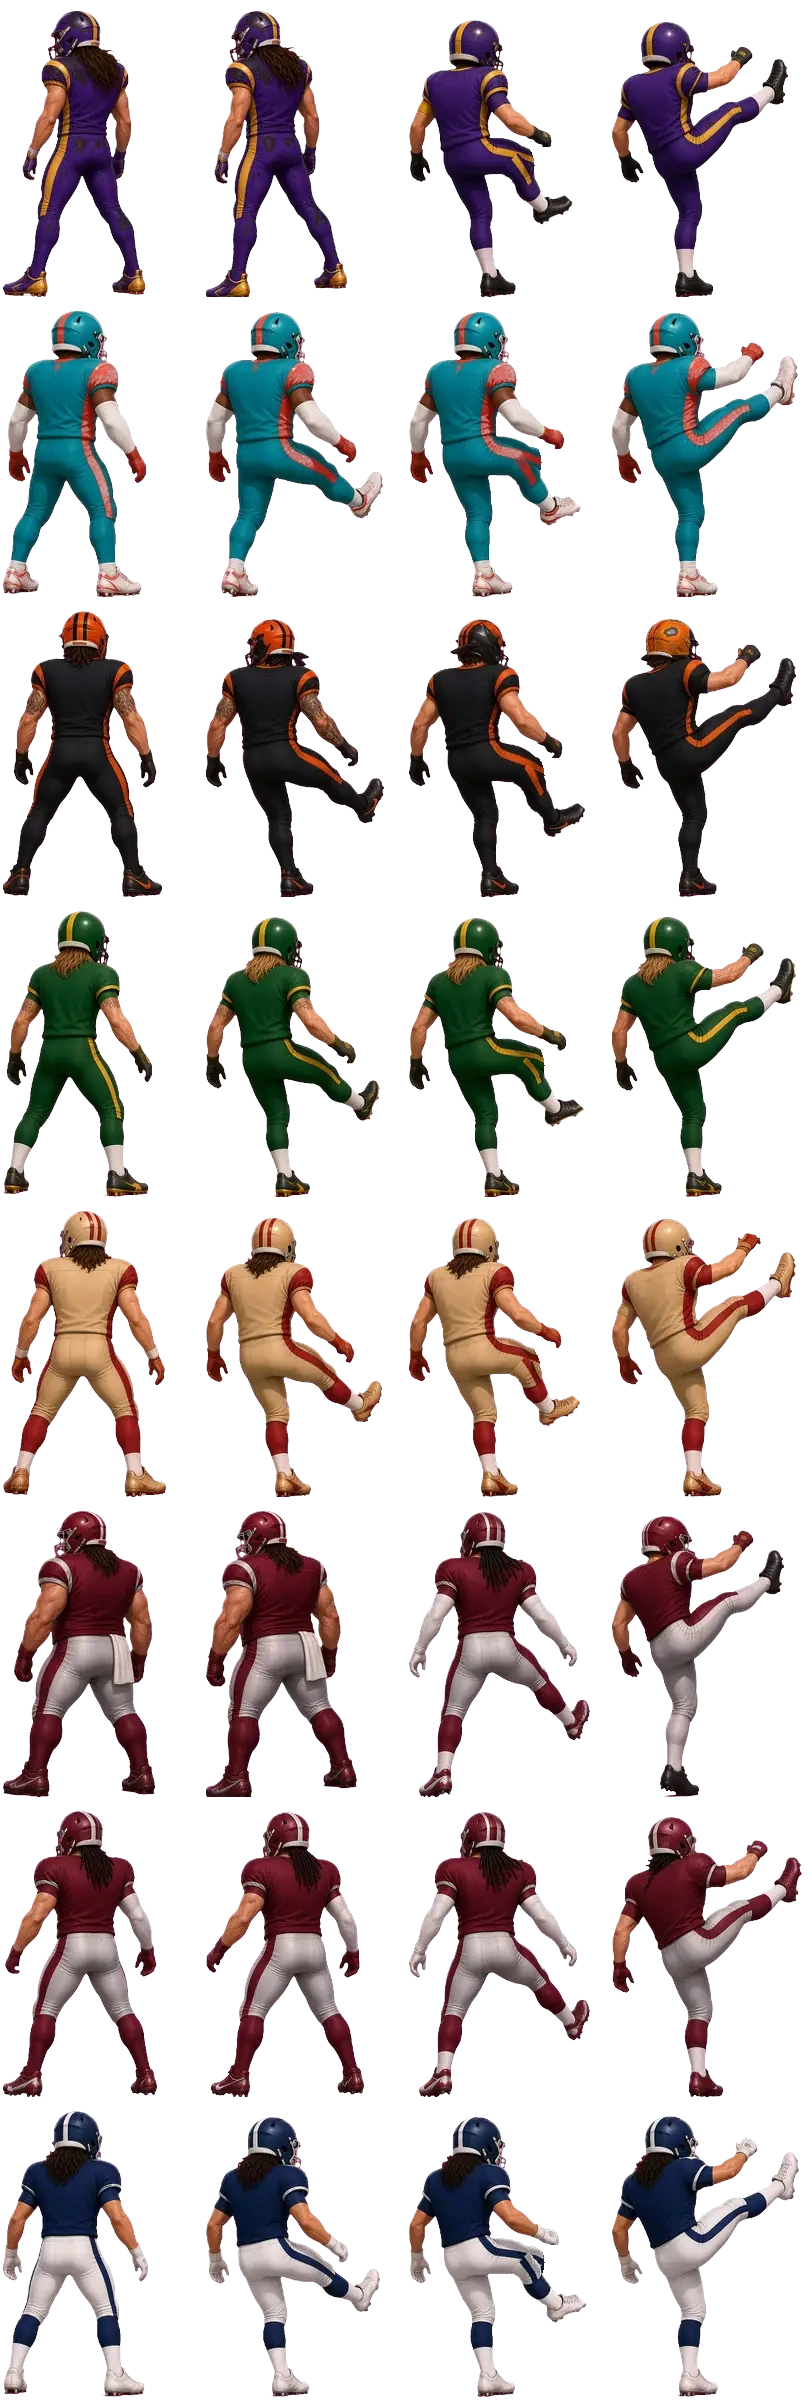
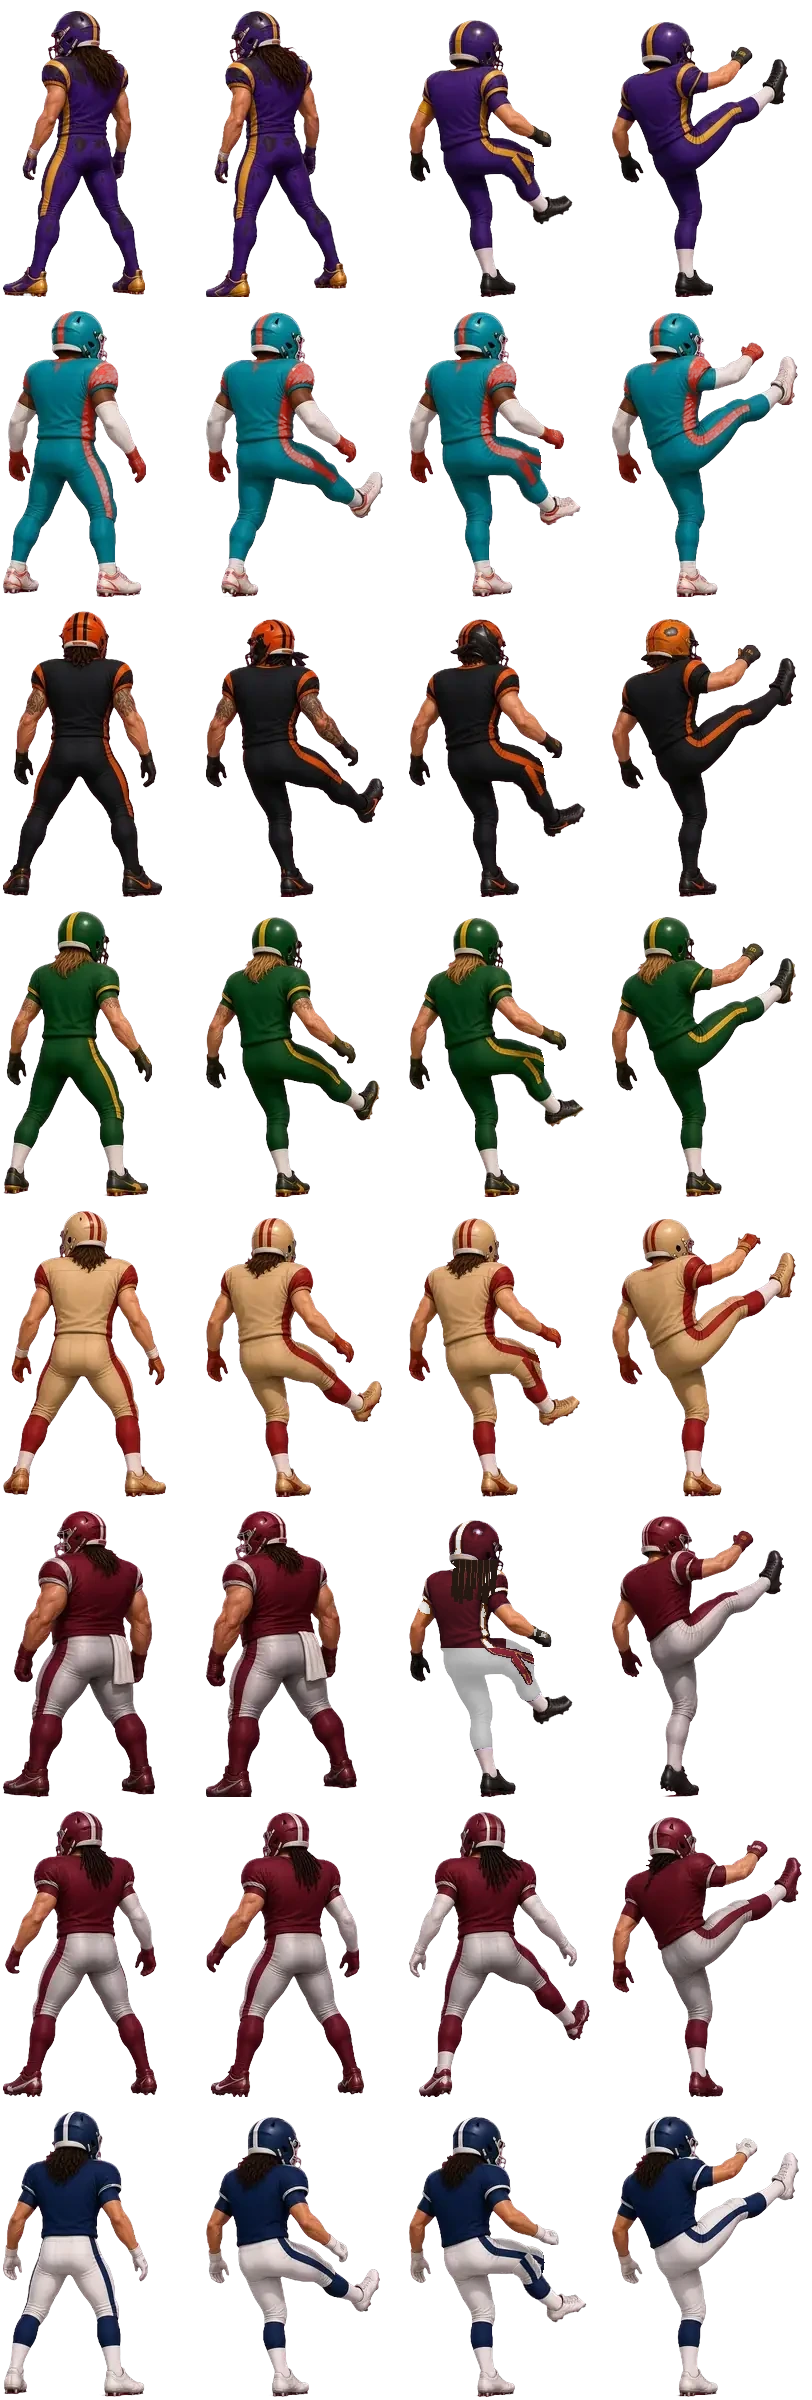
Mascot kick reads: leg in front, lean/plant, high follow-through, arms out; proper Bulldogs contact frame

Changed region(s): [[0.4926, 0.625, 0.7389, 0.75]]

diff --git a/s10.js b/s10.js
@@ -29,18 +29,30 @@ function mascBack(mi,num){const nm=(MK.name||'').toUpperCase().slice(0,10),k=mi+
  if(nm){let fs=12;x.font=`900 ${fs}px system-ui`;while(x.measureText(nm).width>tw-8&&fs>7){fs--;x.font=`900 ${fs}px system-ui`}x.lineWidth=3;x.strokeStyle='rgba(0,0,0,0.5)';x.strokeText(nm,tx+tw/2,ty+12);x.fillStyle='#fff';x.fillText(nm,tx+tw/2,ty+12)}
  numOn(x,tx+tw/2,ty+th*0.6,Math.min(30,th*0.55),num,T.s);
  return MBK[k]=c}
-mascSheet=function(mi,ti,num){const k='mb2_'+mi+'_'+num+'_'+(MK.name||'');if(KC5[k])return KC5[k];if(!MSI.complete||!MSI.naturalWidth)return teamSheet(ti);
- const c=document.createElement('canvas');c.width=812;c.height=300;c._masc=1;const x=c.getContext('2d'),bk=mascBack(mi,num),T=TEAMS[mi]||TEAMS[ti];
- // frames: 0 ready, 1 wind-up (leg back), 2 contact, 3 follow-through — feet on the human baseline, same spot by the ball
- // frame-space targets (203x300 cell) for the boot: wind-up behind, CONTACT exactly on the tee/ball, follow-through high toward the posts
- const P=[[0,0,null],[-0.04,-3,[40,250]],[0.03,2,[175,206]],[0.08,5,[178,80]]];
- P.forEach(([r,dx,tg],i)=>{const h=218,w=h*0.965,fx=i*203+76+dx,fy=297;
-  let L=null;if(tg){const hx=fx+w*0.2,hy=fy-h*0.36;let vx=tg[0]+i*203-hx,vy=tg[1]-hy;const d=Math.hypot(vx,vy),Lm=Math.min(d,h*0.42);L=[hx,hy,Math.atan2(-vx,vy),Lm]}
+// arms moved for the kick: cut each raised arm at the shoulder and swing it down / out to the side
+const MAX_=[0,[null,140],0,0,[null,148],0,[42,138],0];
+function mascArms(mi,num,al,ar){const bk=mascBack(mi,num),k='a'+mi+'_'+num+'_'+(MK.name||'')+'_'+al+'_'+ar;if(MBK[k])return MBK[k];
+ const [hd,,tb]=MBH[mi]||MBH[0],[tx,ty,tw,th]=tb,c=document.createElement('canvas');c.width=193;c.height=200;const x=c.getContext('2d');
+ const AX=MAX_[mi]||[tx+2,tx+tw-2],LX=AX[0],RX=AX[1];const armPath=(left)=>{x.beginPath();if(left)(LX!=null&&x.rect(0,0,LX,ty+14));else (RX!=null&&x.rect(RX,0,193,ty+14));x.ellipse(hd[0],hd[1],hd[2]*1.25,hd[3]*1.2,0,0,7)};
+ // body without arms
+ x.save();x.beginPath();x.rect(0,0,193,200);(LX!=null&&x.rect(0,0,LX,ty+14));(RX!=null&&x.rect(RX,0,193,ty+14));x.ellipse(hd[0],hd[1],hd[2]*1.25,hd[3]*1.2,0,0,7);x.clip('evenodd');x.drawImage(bk,0,0);x.restore();
+ // put the head back (it was excluded from the arm cut)
+ x.save();x.beginPath();x.ellipse(hd[0],hd[1],hd[2]*1.25,hd[3]*1.2,0,0,7);x.clip();x.drawImage(bk,0,0);x.restore();
+ for(const [left,ang] of [[1,al],[0,ar]]){if((left?LX:RX)==null)continue;const px=left?LX:RX,py=ty+14;x.save();x.translate(px,py);x.rotate(ang);x.translate(-px,-py);
+  x.beginPath();if(left)(LX!=null&&x.rect(0,0,LX,ty+14));else (RX!=null&&x.rect(RX,0,193,ty+14));x.clip('nonzero');
+  x.save();x.beginPath();x.rect(0,0,193,200);x.ellipse(hd[0],hd[1],hd[2]*1.25,hd[3]*1.2,0,0,7);x.clip('evenodd');x.drawImage(bk,0,0);x.restore();x.restore()}
+ return MBK[k]=c}
+mascSheet=function(mi,ti,num){const k='mb5_'+mi+'_'+num+'_'+(MK.name||'');if(KC5[k])return KC5[k];if(!MSI.complete||!MSI.naturalWidth)return teamSheet(ti);
+ const c=document.createElement('canvas');c.width=812;c.height=300;c._masc=1;const x=c.getContext('2d'),T=TEAMS[mi]||TEAMS[ti];
+ // [body lean, x shift, boot target in the 203x300 cell, left arm, right arm]
+ const P=[[0,0,null,0,0],[-0.10,-8,[30,262],-1.9,1.3],[0.10,10,[175,206],-1.7,2.0],[-0.16,4,[196,26],-1.3,1.7]];
+ P.forEach(([r,dx,tg,al,ar],i)=>{const h=218,w=h*0.965,fx=i*203+76+dx,fy=297,img=i?mascArms(mi,num,al,ar):mascBack(mi,num);
+  let L=null;if(tg){const hx=fx+w*0.1,hy=fy-h*0.36;const vx=tg[0]+i*203-hx,vy=tg[1]-hy;L=[hx,hy,Math.atan2(-vx,vy),Math.min(Math.hypot(vx,vy),h*0.62)]}
   if(L&&i===1)drawLeg(x,L,T);
-  x.save();x.translate(fx,fy);x.rotate(r);x.drawImage(bk,-w/2,-h,w,h);x.restore();
+  x.save();x.translate(fx,fy);x.rotate(r);x.drawImage(img,-w/2,-h,w,h);x.restore();
   if(L&&i>1)drawLeg(x,L,T)});return KC5[k]=c};
 function drawLeg(x,[hx,hy,a,L],T){x.save();x.translate(hx,hy);x.rotate(a);
  const g=x.createLinearGradient(-13,0,13,0);g.addColorStop(0,'rgba(0,0,0,0.28)');g.addColorStop(0.5,'rgba(255,255,255,0.10)');g.addColorStop(1,'rgba(0,0,0,0.28)');
- x.fillStyle=T.p;x.beginPath();x.roundRect(-13,-6,26,L*0.62,12);x.fill();x.fillStyle=g;x.fill();
- x.fillStyle='#f4f4f4';x.beginPath();x.roundRect(-10,L*0.55,20,L*0.36,8);x.fill();x.fillStyle=T.s;x.fillRect(-10,L*0.55,20,5);
- x.fillStyle='#141414';x.beginPath();x.ellipse(3,L*0.94,12,17,0,0,7);x.fill();x.fillStyle='rgba(255,255,255,0.22)';x.fillRect(-4,L*0.86,9,3);x.restore()}
+ x.fillStyle=T.p;x.beginPath();x.roundRect(-16,-8,32,L*0.62,14);x.fill();x.fillStyle=g;x.fill();
+ x.fillStyle='#f4f4f4';x.beginPath();x.roundRect(-12,L*0.55,24,L*0.36,9);x.fill();x.fillStyle=T.s;x.fillRect(-10,L*0.55,20,5);
+ x.fillStyle='#141414';x.beginPath();x.ellipse(3,L*0.95,14,20,0,0,7);x.fill();x.fillStyle='rgba(255,255,255,0.22)';x.fillRect(-4,L*0.86,9,3);x.restore()}

diff --git a/s5.js b/s5.js
@@ -7,7 +7,7 @@ const IS_WEB=!window.FGF_APP;
 window.TESTER=IS_WEB&&LS.fgfTester==='1';
 if(TESTER){coins=1e9;const oAdd=addCoins;addCoins=function(n){}}
 // ---- per-team kicker sheets (kickers.webp: 8 rows x 4 poses of 203x300) ----
-const KMETA=[[[86, 88, 40, 31, 76, 24], [270, 88, 40, 31, 256, 24], [464, 94, 42, 30, 474, 32], [657, 96, 36, 30, 666, 34]], [[69, 88, 47, 31, 78, 24], [266, 88, 46, 31, 276, 25], [470, 88, 45, 31, 480, 25], [669, 89, 46, 31, 676, 26]], [[82, 88, 50, 31, 83, 24], [270, 94, 48, 31, 270, 32], [472, 94, 46, 31, 480, 32], [660, 94, 38, 31, 672, 32]], [[73, 88, 46, 31, 82, 24], [266, 92, 44, 31, 276, 30], [468, 93, 43, 31, 478, 31], [659, 92, 37, 31, 668, 30]], [[86, 88, 50, 31, 84, 24], [264, 93, 44, 31, 274, 31], [468, 93, 44, 31, 475, 31], [659, 94, 38, 31, 693, 32]], [[90, 88, 50, 31, 82, 24], [276, 88, 53, 31, 262, 24], [523, 91, 56, 31, 524, 29], [656, 91, 36, 31, 688, 29]], [[84, 88, 48, 31, 79, 24], [291, 88, 48, 31, 286, 25], [486, 88, 49, 31, 482, 25], [665, 92, 40, 31, 685, 30]], [[72, 88, 50, 31, 78, 24], [263, 92, 45, 31, 273, 30], [466, 92, 44, 31, 478, 30], [660, 91, 38, 31, 684, 29]]]; // per team, per pose: [numCx,numCy,numW,numH,headX,headY]
+const KMETA=[[[86, 88, 40, 31, 76, 24], [270, 88, 40, 31, 256, 24], [464, 94, 42, 30, 474, 32], [657, 96, 36, 30, 666, 34]], [[69, 88, 47, 31, 78, 24], [266, 88, 46, 31, 276, 25], [470, 88, 45, 31, 480, 25], [669, 89, 46, 31, 676, 26]], [[82, 88, 50, 31, 83, 24], [270, 94, 48, 31, 270, 32], [472, 94, 46, 31, 480, 32], [660, 94, 38, 31, 672, 32]], [[73, 88, 46, 31, 82, 24], [266, 92, 44, 31, 276, 30], [468, 93, 43, 31, 478, 31], [659, 92, 37, 31, 668, 30]], [[86, 88, 50, 31, 84, 24], [264, 93, 44, 31, 274, 31], [468, 93, 44, 31, 475, 31], [659, 94, 38, 31, 693, 32]], [[90, 88, 50, 31, 82, 24], [276, 88, 53, 31, 262, 24], [464, 94, 42, 30, 474, 32], [656, 91, 36, 31, 688, 29]], [[84, 88, 48, 31, 79, 24], [291, 88, 48, 31, 286, 25], [486, 88, 49, 31, 482, 25], [665, 92, 40, 31, 685, 30]], [[72, 88, 50, 31, 78, 24], [263, 92, 45, 31, 273, 30], [466, 92, 44, 31, 478, 30], [660, 91, 38, 31, 684, 29]]]; // per team, per pose: [numCx,numCy,numW,numH,headX,headY]
 const NUMS5=[14,5,31,37,6,47,18,10]; // fixed in code: same on every device, unique per team
 const SKIN=[['Default',null,0],['Fair','#f3cfae',0],['Light','#e0ac83',0],['Tan','#c48a5c',0],['Brown','#8e5a37',0],['Deep','#5c3820',0],['Gold Chrome','#ffd36a',400],['Blue Paint','#4f86e0',800]];
 const HAIR=[['Default',null,0],['Black','#17110d',0],['Brown','#5b3a22',0],['Blond','#d6b05a',0],['Red','#a3442a',0],['Gray','#a3a3a3',0],['Platinum','#efe9da',250],['Neon Green','#4dff6a',500],['Hot Pink','#ff5fb0',500]];

diff --git a/index.html b/index.html
@@ -3,4 +3,4 @@
 <meta name="theme-color" content="#0b1424"><meta name="mobile-web-app-capable" content="yes"><meta name="apple-mobile-web-app-capable" content="yes">
 <link rel="icon" href="data:,"><title>Field Goal Frenzy</title>
 <style>html,body{margin:0;height:100%;background:#0b1424;overflow:hidden;touch-action:none;-webkit-user-select:none;user-select:none;font-family:system-ui,Arial,sans-serif}canvas{display:block;width:100vw;height:100vh;height:100dvh}</style>
-</head><body><canvas id="c"></canvas><script src="game.js?v=1791874868"></script><script src="s3.js?v=1791874868"></script><script src="s4.js?v=1791874868"></script><script src="s5.js?v=1791874868"></script><script src="s6.js?v=1791874868"></script><script src="s7.js?v=1791874868"></script><script src="s8.js?v=1791874868"></script><script src="s9.js?v=1791874868"></script><script src="s10.js?v=1791874868"></script></body></html>
+</head><body><canvas id="c"></canvas><script src="game.js?v=1791875294"></script><script src="s3.js?v=1791875294"></script><script src="s4.js?v=1791875294"></script><script src="s5.js?v=1791875294"></script><script src="s6.js?v=1791875294"></script><script src="s7.js?v=1791875294"></script><script src="s8.js?v=1791875294"></script><script src="s9.js?v=1791875294"></script><script src="s10.js?v=1791875294"></script></body></html>
